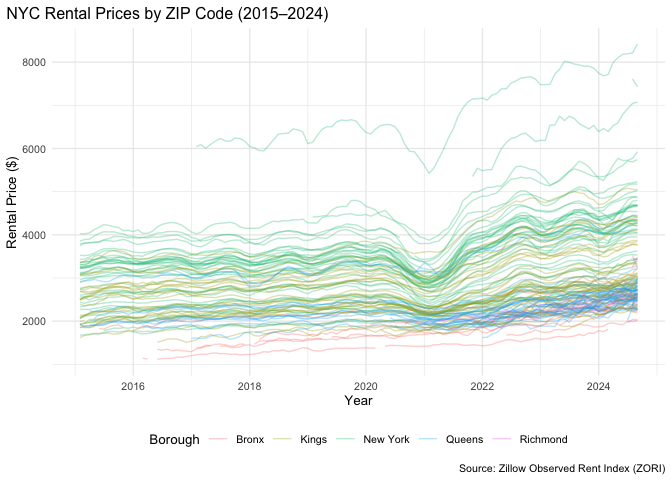
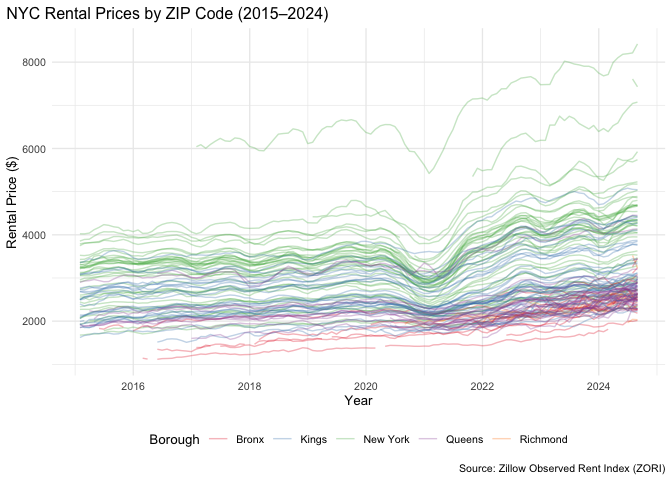
final fix

Changed region(s): [[0.0938, 0.4062, 0.9688, 0.75], [0.75, 0.4062, 0.8125, 0.4375]]

diff --git a/p8105_hw3_zn2220.md b/p8105_hw3_zn2220.md
@@ -778,7 +778,8 @@ ggplot(fz_df, aes(x = period, y = value, group = postal_code, color = borough)) 
   theme(
     legend.position = "bottom",
     plot.title.position = "plot"
-  )
+  ) +
+  scale_color_brewer(palette = "Set1")
 ```
 
     ## Warning: Removed 6804 rows containing missing values or values outside the scale range
@@ -866,7 +867,8 @@ p1 <- ggplot(fz_df, aes(x = period, y = value, group = postal_code, color = boro
   theme(
     legend.position = "bottom",
     plot.title.position = "plot"
-  )
+  ) +
+  scale_color_brewer(palette = "Set1")
 
 rent_2023 <- fz_df %>%
   filter(year(period) == 2023) %>%
@@ -884,7 +886,7 @@ p2 <- ggplot(rent_2023, aes(x = borough, y = avg_rent_2023, fill = borough)) +
   theme(
     legend.position = "none",
     plot.title.position = "plot"
-  )
+  ) 
 
 combined_plot <- p1 / p2
 ggsave("results/nyc_rent_combined_plot.png", combined_plot, width = 10, height = 10, dpi = 300)
